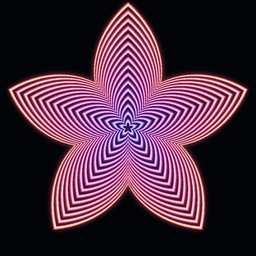
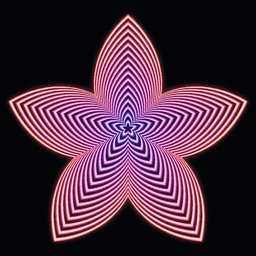
fix(shape): center shapes on their bounding box, not their centroid
A triangle or star drawn from the canvas center sits lop-sided: its apex
reaches the full radius on one side but the opposite edge only reaches the
apothem, leaving an empty band (the bottom of the frame for an upward
triangle). Recenter every shape on its bounding-box center, applied as a
scale about the canvas center so the rings stay concentric. Regenerated
the shape and morph examples. Circle output is unchanged.

diff --git a/main.py b/main.py
@@ -133,11 +133,31 @@ _MORPH_SEQUENCE = ("triangle", "square", "pentagon", "hexagon", "star", "superel
 _SHAPE_SAMPLES = 120  # points used to trace a non-circular ring
 
 
+def _angle(j, n):
+    return 2 * math.pi * j / n - math.pi / 2  # j == 0 points straight up
+
+
+def _centered(factors):
+    """Bundle per-angle radius `factors` with the (ox, oy) offset of the unit
+    shape's bounding-box center. A triangle or star has its centroid well off
+    the bbox center, so drawing it straight from the canvas center leaves the
+    frame lop-sided (an empty band on one side, e.g. the bottom for an upward
+    triangle). Subtracting this offset (scaled by each ring's radius, so the
+    rings stay concentric) sits the shape squarely in the frame."""
+    n = len(factors)
+    xs = [factors[j] * math.cos(_angle(j, n)) for j in range(n)]
+    ys = [factors[j] * math.sin(_angle(j, n)) for j in range(n)]
+    ox = (max(xs) + min(xs)) / 2
+    oy = (max(ys) + min(ys)) / 2
+    return (tuple(factors), ox, oy)
+
+
 def _shape_factors(shape, n=_SHAPE_SAMPLES):
-    """Radius factor at n evenly spaced angles for a unit `shape` (circle == 1)."""
+    """Radius factor at n evenly spaced angles for a unit `shape` (circle == 1),
+    bundled with its bounding-box-center offset (see `_centered`)."""
     out = []
     for j in range(n):
-        th = 2 * math.pi * j / n - math.pi / 2  # start at the top
+        th = _angle(j, n)
         if shape == "circle":
             r = 1.0
         elif shape == "superellipse":
@@ -154,17 +174,18 @@ def _shape_factors(shape, n=_SHAPE_SAMPLES):
             r = math.cos(math.pi / sides) / math.cos(((th + math.pi / 2) % ang) - math.pi / sides)
         out.append(r)
     peak = max(out)
-    return [v / peak for v in out]
+    return _centered([v / peak for v in out])
 
 
 @functools.lru_cache(maxsize=None)
 def _shape_table(shape):
-    return tuple(_shape_factors(shape))
+    return _shape_factors(shape)
 
 
 def shape_factors_for(shape, phase=0.0):
-    """Factors for a ring at the given loop phase. `circle` -> None (use the
-    fast ellipse path). `morph` cycles through the shapes and loops seamlessly."""
+    """Shape data (factors + bbox offset) for a ring at the given loop phase.
+    `circle` -> None (use the fast ellipse path). `morph` cycles through the
+    shapes and loops seamlessly."""
     if shape == "circle":
         return None
     if shape != "morph":
@@ -174,14 +195,16 @@ def shape_factors_for(shape, phase=0.0):
     i = int(pos)
     frac = pos - i
     frac = frac * frac * (3 - 2 * frac)  # smoothstep between shapes
-    a, b = _shape_table(seq[i % len(seq)]), _shape_table(seq[(i + 1) % len(seq)])
-    return tuple(av + (bv - av) * frac for av, bv in zip(a, b))
+    a = _shape_table(seq[i % len(seq)])[0]
+    b = _shape_table(seq[(i + 1) % len(seq)])[0]
+    return _centered([av + (bv - av) * frac for av, bv in zip(a, b)])
 
 
-def _shape_xy(center, radius, factors):
+def _shape_xy(center, radius, shape):
+    factors, ox, oy = shape
     n = len(factors)
-    return [(center + radius * factors[j] * math.cos(2 * math.pi * j / n - math.pi / 2),
-             center + radius * factors[j] * math.sin(2 * math.pi * j / n - math.pi / 2))
+    return [(center + radius * (factors[j] * math.cos(_angle(j, n)) - ox),
+             center + radius * (factors[j] * math.sin(_angle(j, n)) - oy))
             for j in range(n)]
 
 
